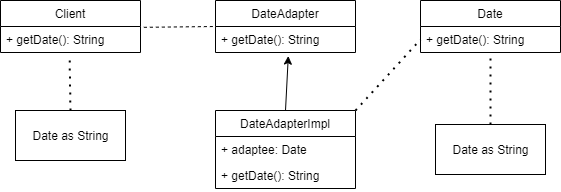
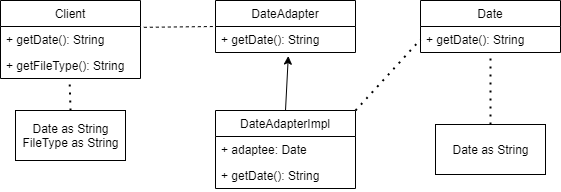
updates to Claude exercise4

diff --git a/assignments/Claude/Session4/bufferReader.java b/assignments/Claude/Session4/bufferReader.java
@@ -1,0 +1,25 @@
+interface DateAdapter {
+  string getDate();
+  string getFileType();
+};
+
+class DateAdapterImpl implements DateAdapter {
+  private Buffer buffer;
+
+  @override
+  public String getDate() {
+    return convertDate(buffer.getDate(), buffer.getFileType());
+  }
+
+  private convertDate(String date, String fileType ) {
+    if (fileType == "ISO 8601") {
+      DateFormat formatter = new SimpleDateFormat("YY-MM-DD");
+      return formatter.format(date);
+    }
+    else {
+      DateFormat formatter = new SimpleDateFormat("YY/MM/DD");
+      return formatter.format(date);
+    }
+  }
+
+}
